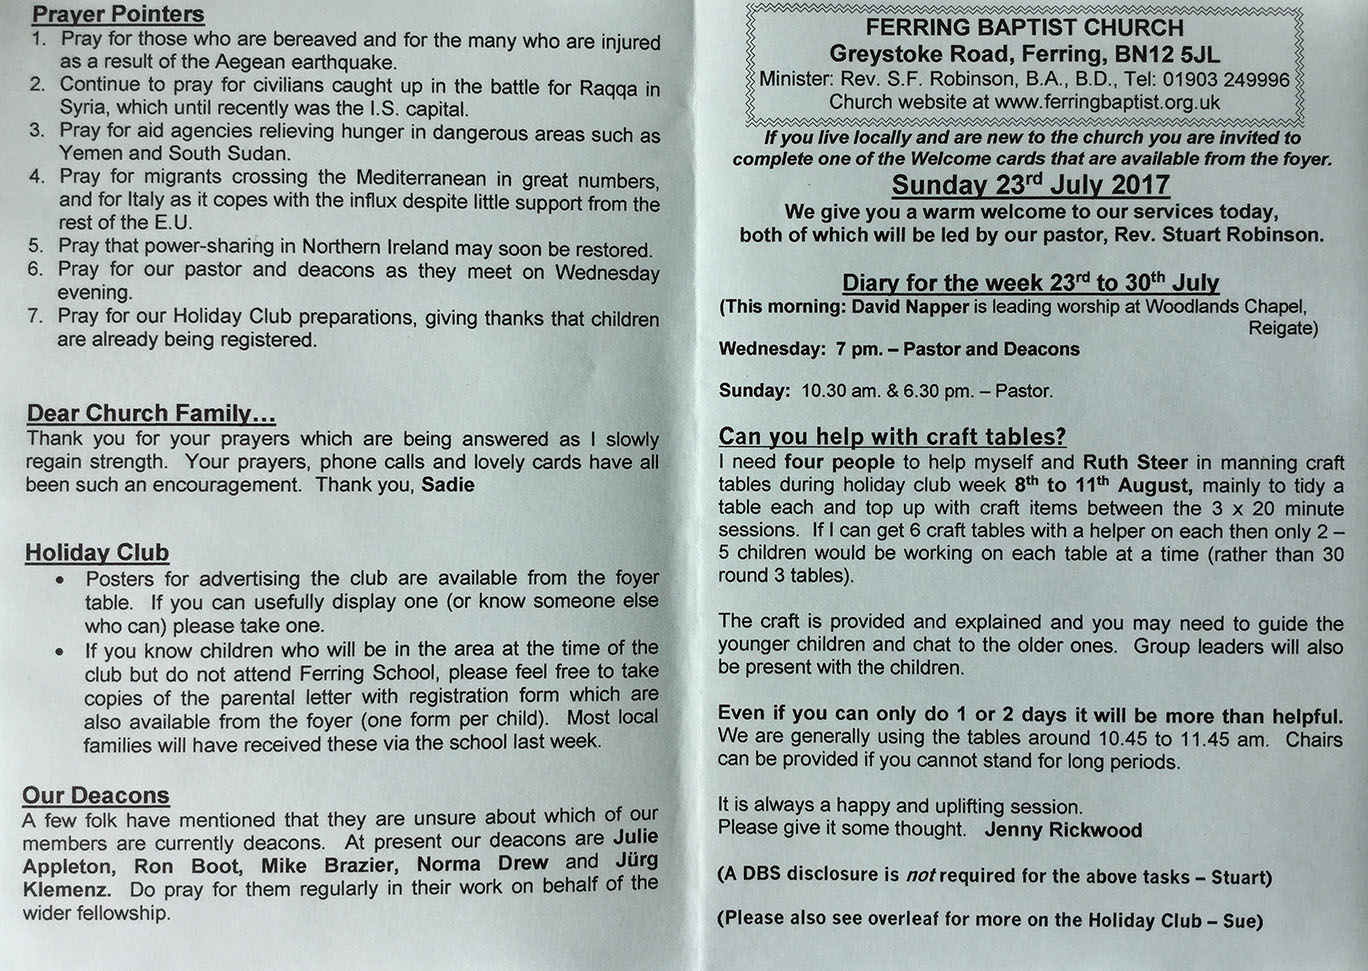
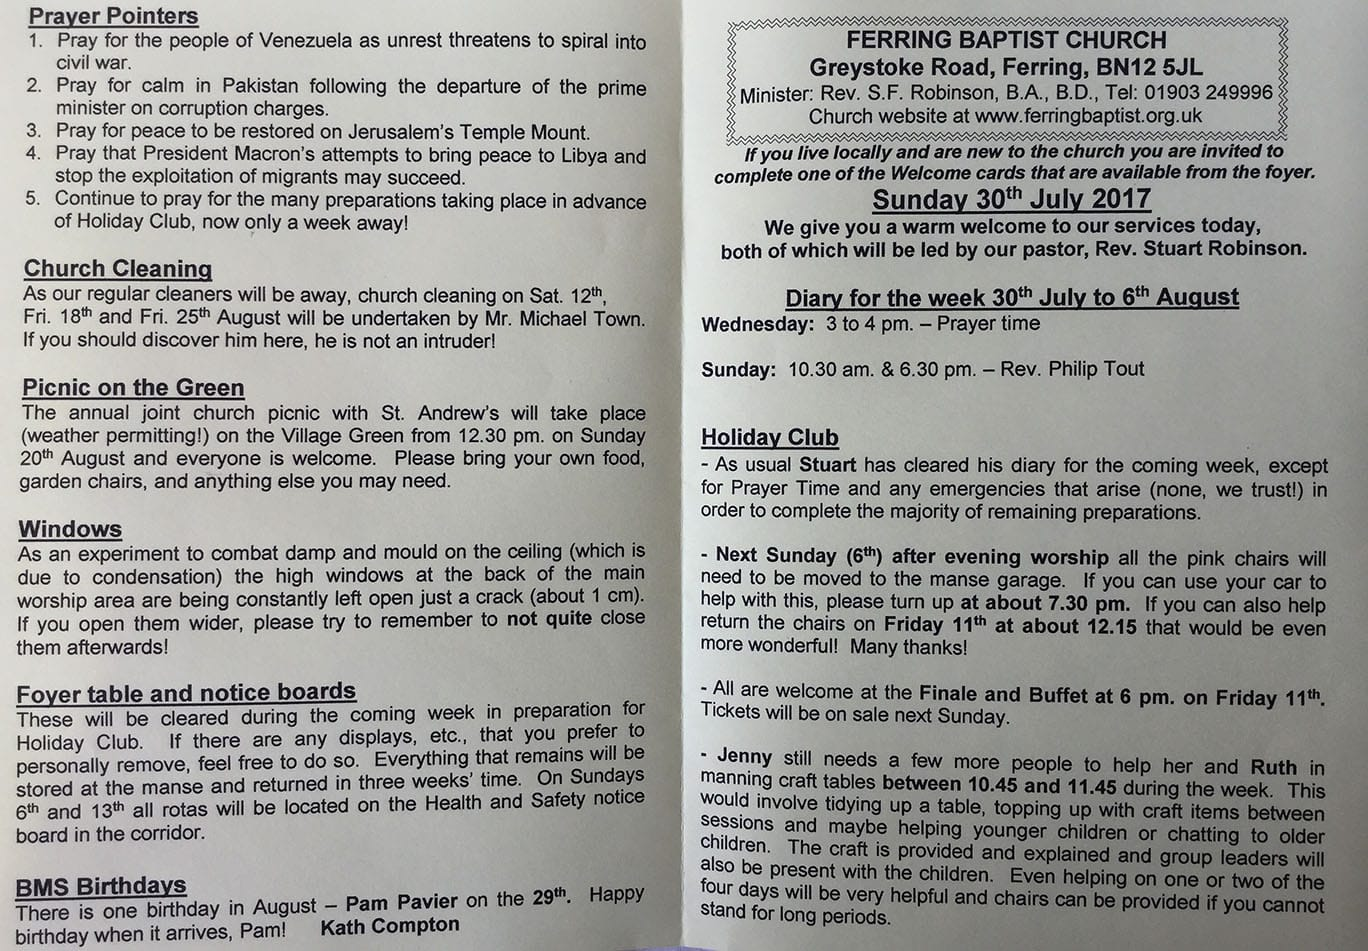
Weekly update + preaching schedule

diff --git a/upcoming.php b/upcoming.php
@@ -4,7 +4,7 @@
 			<div id="content">
 				<h1>Coming Weeks</h1>
 
-				<p class="floatleft underline">Preaching Schedule Jul-Aug 2017</p> <p class="floatright underline"><strong>(C)</strong> - Communion</p>
+				<p class="floatleft underline">Preaching Schedule Aug-Sep 2017</p> <p class="floatright underline"><strong>(C)</strong> - Communion</p>
 
 				<table class="clear styled" summary="Schedule for who is preaching in these coming months">
 					<thead>
@@ -15,15 +15,10 @@
 						</tr>
 					</thead>
 					<tbody>
-						<tr class="odd">
-							<th scope="row">Jul 30th</th>
-							<td>Rev. Stuart Robinson</td>
-							<td>Rev. Stuart Robinson</td>
-						</tr>
                         <tr class="odd">
 							<th scope="row">Aug 6th</th>
-							<td>TBC</td>
-							<td>TBC <strong>(C)</strong></td>
+							<td>Mr. Roger Purdom</td>
+							<td>Rev. Philip Tout <strong>(C)</strong></td>
 						</tr>
 						<tr>
 							<th scope="row">Aug 13th</th>
@@ -37,6 +32,26 @@
 						</tr>
 						<tr>
 							<th scope="row">Aug 27th</th>
+							<td>Rev. Stuart Robinson</td>
+							<td>Rev. Stuart Robinson</td>
+						</tr>
+                        <tr class="odd">
+							<th scope="row">Sep 3rd</th>
+							<td>Rev. Stuart Robinson</td>
+							<td>Rev. Stuart Robinson <strong>(C)</strong></td>
+						</tr>
+						<tr>
+							<th scope="row">Sep 10th</th>
+							<td>Rev. Stuart Robinson</td>
+							<td>Rev. Stuart Robinson</td>
+						</tr>
+						<tr class="odd">
+							<th scope="row">Sep 17th</th>
+							<td>Mr. David Napper <strong>(C)</strong></td>
+							<td>Fellowship Evening</td>
+						</tr>
+						<tr>
+							<th scope="row">Sep 24th</th>
 							<td>Rev. Stuart Robinson</td>
 							<td>Rev. Stuart Robinson</td>
 						</tr>

diff --git a/diary.php b/diary.php
@@ -6,7 +6,7 @@
 
 				<p class="centre">(For a long-term look at our church, see the <a href="upcoming.php">Coming Weeks page</a>)</p>
 
-				<p class="centre"><strong>Schedule for the week 23rd to 30th July</strong></p>
+				<p class="centre"><strong>Schedule for the week 30th July to 6th August</strong></p>
 
 				<table class="styled" summary="Schedule for events in the coming week(s)">
 					<thead>
@@ -18,9 +18,17 @@
 					</thead>
 					<tbody>
 						<tr class="odd">
+							<th scope="row">Wednesday<br />3:00-4:00 P.M.</th>
+							<td>Prayer time</td>
+							<td></td>
+						</tr>
+						<tr>
 							<th scope="row">Sunday<br />10:30 A.M.<br />6:30 P.M.</th>
 							<td>Sunday Services</td>
-							<td></td>
+							<td>Morning service will be led by<br />
+								Mr. Roger Purdom<br />
+								Evening service will be led by<br />
+								Rev. Philip Tout</td>
 						</tr>
 					</tbody>
 				</table>
